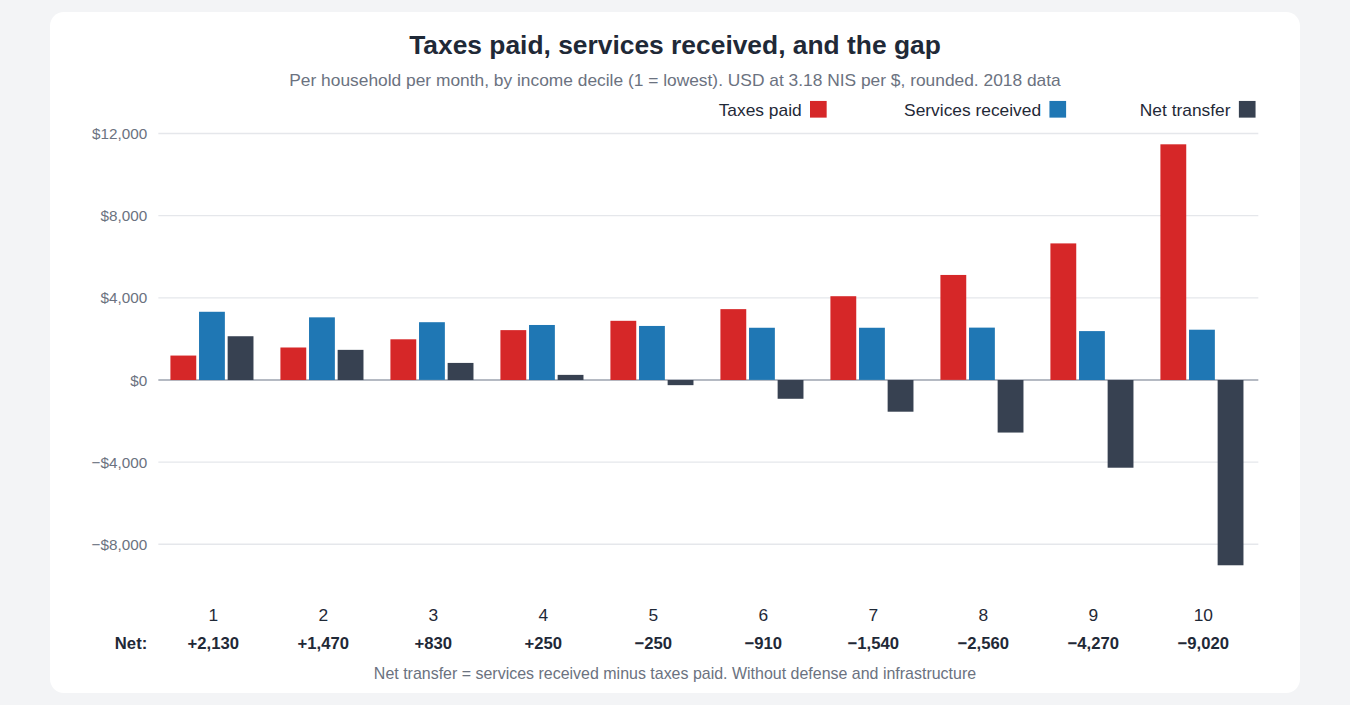
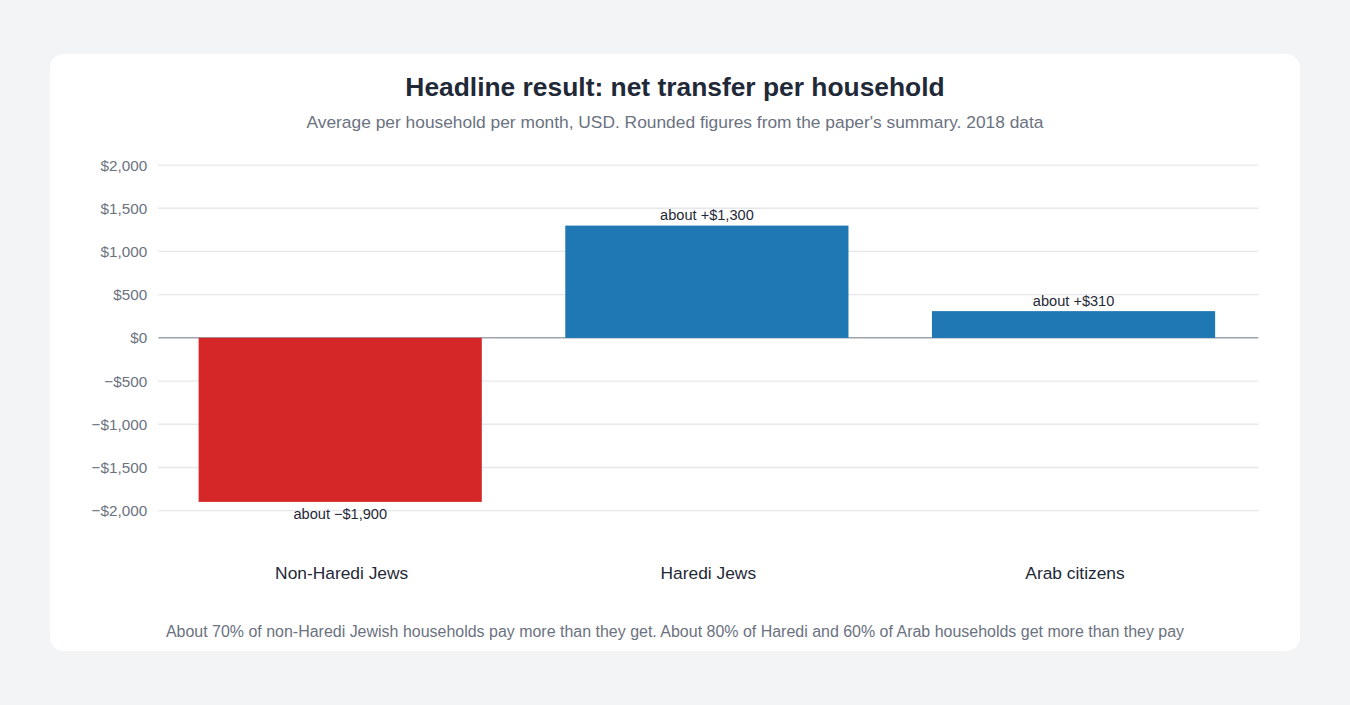
Use the headline chart as the post image

diff --git a/_posts/2026-11-10-taxes-and-wonders-explainer-en.md b/_posts/2026-11-10-taxes-and-wonders-explainer-en.md
@@ -12,7 +12,7 @@ mermaid: false
 media_subpath: /assets/images/taxes-explainer-en/
 image:
    path: cover.png
-   alt: "Bar chart of taxes paid, services received and net transfer per household, by income decile, in USD"
+   alt: "Bar chart of the average net transfer per household per month: non-Haredi Jews about −$1,900, Haredi Jews about +$1,300, Arab citizens about +$310"
 ---
 
 > Short on time? Jump to [the headline chart](#03-the-headline-result). It shows the whole result in one picture.
